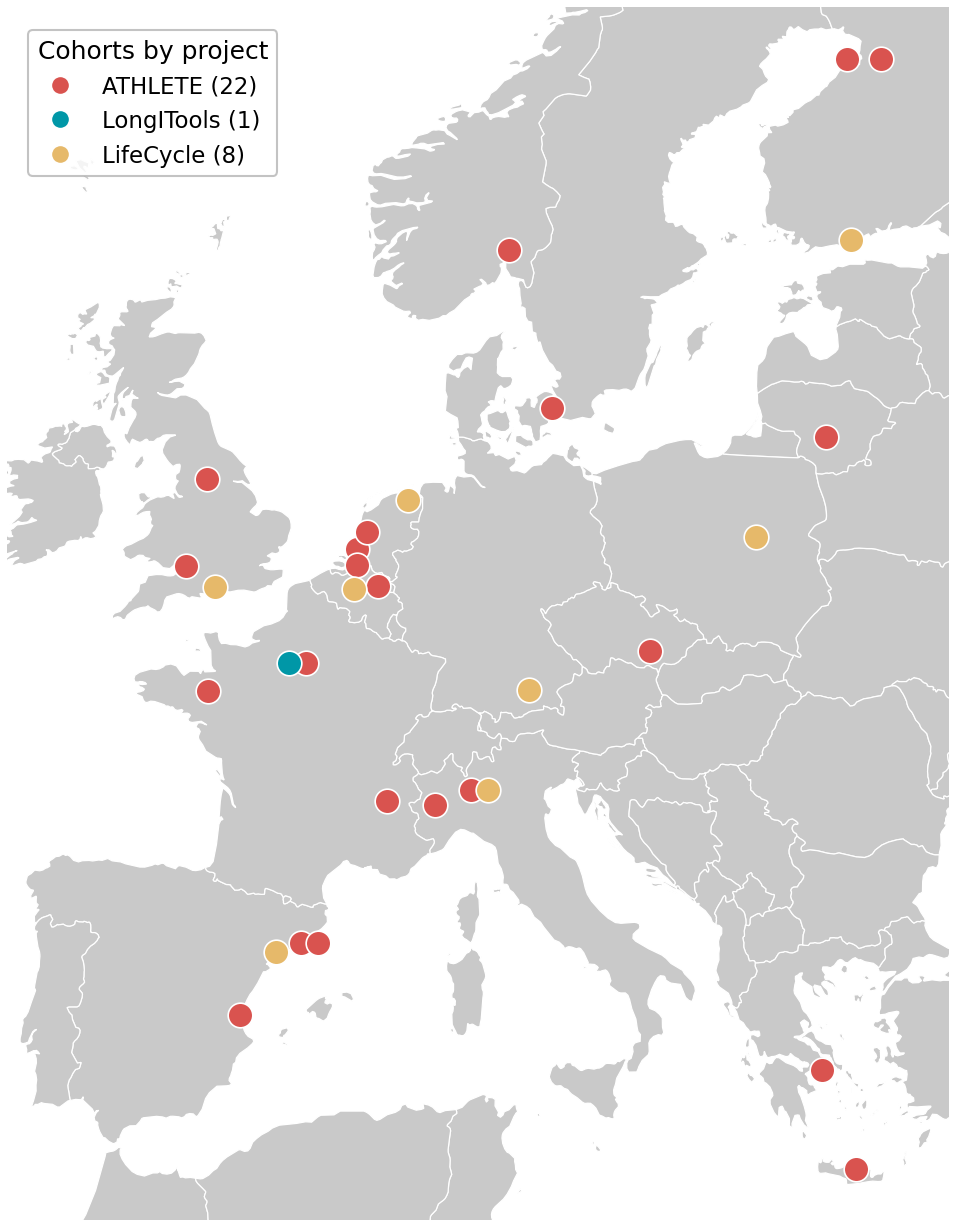
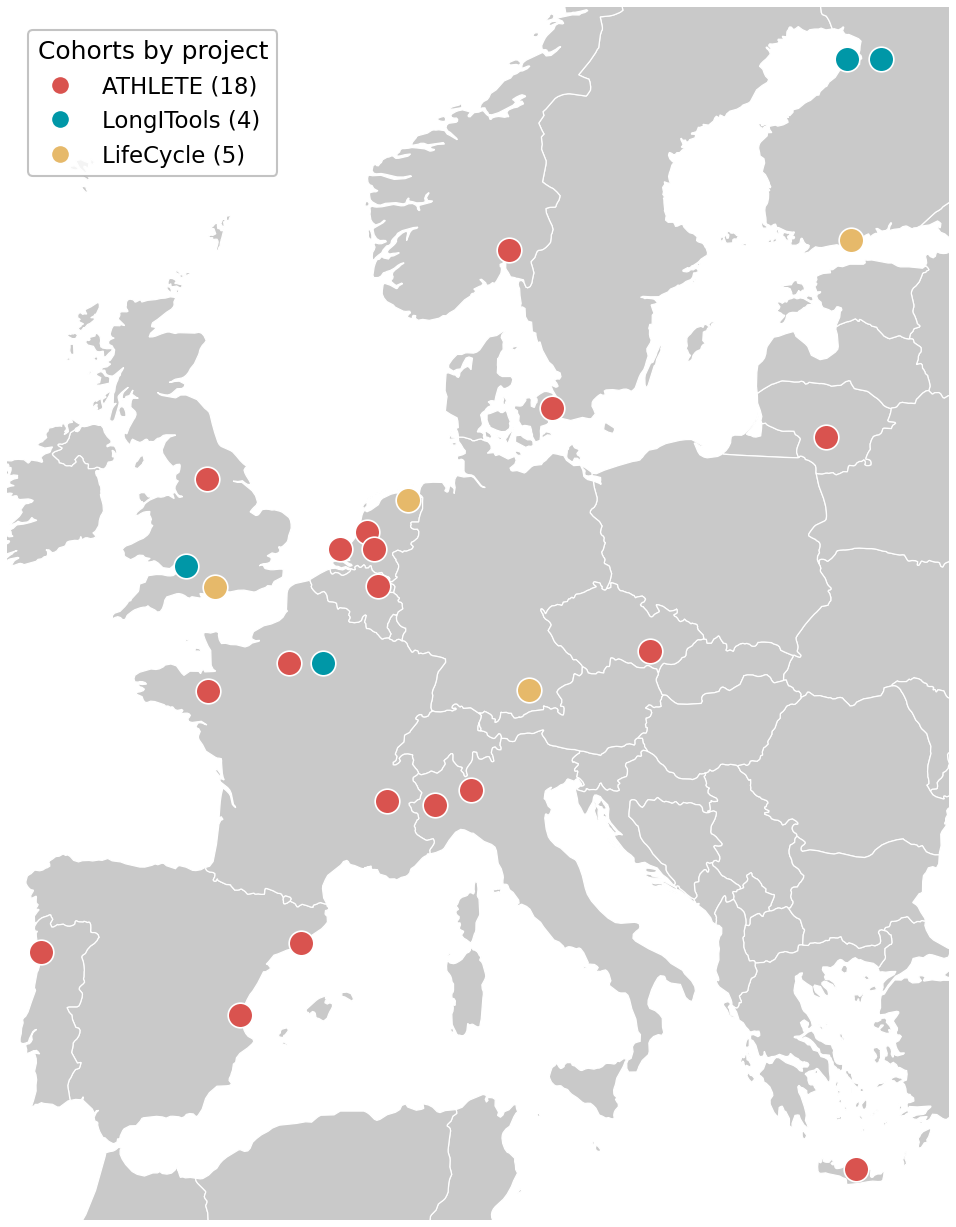
Build IHEN nodes map from the register, not a local copy

diff --git a/ihen-26/build_maps.py b/ihen-26/build_maps.py
@@ -25,47 +25,46 @@ SES_NO2 = [
 ]
 
 
-# IHEN map, one marker per cohort. LifeCycle: participating cohorts on the LifeCycle map
-# (stage-webinar/public/lifecycle_map_original.png). ATHLETE and LongITools: data/cohorts_extra.csv,
-# plus ABCD, HGS, NFBC1966 and NFBC1986 in ATHLETE; LongITools-only entries there are not nodes.
-# A cohort in several projects is labelled ATHLETE first, then LongITools, then LifeCycle.
-# Nudges are wider than in build_cohort_map.py so co-located markers stay visible.
+# IHEN map, one marker per cohort. Membership and coordinates come from
+# data/datashield_nodes.csv (built by data/build_nodes.py) — the single source of
+# truth; this file holds no cohort list of its own. A cohort in several projects is
+# labelled ATHLETE first, then LongITools, then LifeCycle.
 IHEN_PROJECTS = [('ATHLETE', RED), ('LongITools', TEAL), ('LifeCycle', GOLD)]
-IHEN_NODES = [
-    ('ALSPAC', -2.5879, 51.4545, 'ATHLETE'),                   # true Bristol
-    ('Born in Bradford', -1.7594, 53.7960, 'ATHLETE'),         # true Bradford
-    ('DNBC', 12.5683, 55.6761, 'ATHLETE'),                     # true Copenhagen
-    ('EDEN', 2.3522, 48.8566, 'ATHLETE'),                      # true Paris
-    ('Generation R', 4.4777, 51.9244, 'ATHLETE'),              # true Rotterdam
-    ('Generation R Next', 4.4777, 51.4744, 'ATHLETE'),         # fake — nudged off Rotterdam
-    ('INMA', -0.3763, 39.4699, 'ATHLETE'),                     # true Valencia
-    ('MoBa', 10.7522, 59.9139, 'ATHLETE'),                     # true Oslo
-    ('NINFEA', 7.6869, 45.0703, 'ATHLETE'),                    # true Turin
-    ('RHEA', 25.1442, 35.3387, 'ATHLETE'),                     # true Heraklion
-    ('PELAGIE', -1.6778, 48.1173, 'ATHLETE'),                  # true Rennes
-    ('Piccolipiu', 9.1900, 45.4642, 'ATHLETE'),                # true Milan
-    ('BISC', 2.1686, 41.3874, 'ATHLETE'),                      # true Barcelona
-    ('HELIX', 2.8686, 41.3874, 'ATHLETE'),                     # fake — nudged off Barcelona
-    ('EnvironAGE', 5.3378, 50.9307, 'ATHLETE'),                # true Hasselt
-    ('KANC', 23.9036, 54.8985, 'ATHLETE'),                     # true Kaunas
-    ('CELSPAC-TNG (Recetox)', 16.6068, 49.1951, 'ATHLETE'),    # true Brno
-    ('SEPAGES', 5.7245, 45.1885, 'ATHLETE'),                   # true Grenoble
-    ('ABCD', 4.9041, 52.3676, 'ATHLETE'),                      # true Amsterdam
-    ('HGS', 23.7275, 37.9838, 'ATHLETE'),                      # true Athens
+PROJECT_COLUMN = {'ATHLETE': 'Athlete', 'LongITools': 'Longitools', 'LifeCycle': 'LifeCycle'}
 
-    ('ELFE', 1.6522, 48.8566, 'LongITools'),                   # fake — nudged off Paris
-    ('NFBC1966', 24.7651, 65.0121, 'ATHLETE'),                 # fake — nudged off Oulu
-    ('NFBC1986', 26.1651, 65.0121, 'ATHLETE'),                 # fake — nudged off Oulu
 
-    ('SWS', -1.4044, 50.9097, 'LifeCycle'),                    # true Southampton
-    ('GECKO', 6.5665, 53.2194, 'LifeCycle'),                   # true Groningen
-    ('HBCS', 24.9384, 60.1699, 'LifeCycle'),                   # true Helsinki
-    ('CHOP-Germany', 11.5820, 48.1351, 'LifeCycle'),           # true Munich
-    ('CHOP-Belgium', 4.3517, 50.8503, 'LifeCycle'),            # true Brussels
-    ('CHOP-Italy', 9.8900, 45.4642, 'LifeCycle'),              # fake — nudged off Milan
-    ('CHOP-Poland', 21.0122, 52.2297, 'LifeCycle'),            # true Warsaw
-    ('CHOP-Spain', 1.1069, 41.1561, 'LifeCycle'),              # true Reus
-]
+def ihen_nodes():
+    """Exposome cohorts from the register, fanned out where several share a city.
+
+    The fan is a small deterministic offset so co-located markers stay visible; it
+    is not a real position. Markers are larger here than in build_cohort_map.py, so
+    the fan is wider too.
+    """
+    import csv
+    from collections import defaultdict
+
+    rows = list(csv.DictReader(open(os.path.join(HERE, '..', 'data', 'datashield_nodes.csv'))))
+    picked = []
+    for r in rows:
+        if r['status'] != 'live' or not r['lon']:
+            continue
+        project = next((p for p, _ in IHEN_PROJECTS if r[PROJECT_COLUMN[p]]), None)
+        if project:
+            picked.append([r['cohort'], float(r['lon']), float(r['lat']), project])
+
+    at = defaultdict(list)
+    for n in picked:
+        at[(round(n[1], 3), round(n[2], 3))].append(n)
+    for group in at.values():
+        if len(group) == 1:
+            continue
+        step = 1.4
+        for i, n in enumerate(group):
+            n[1] += (i - (len(group) - 1) / 2) * step
+    return [tuple(n) for n in picked]
+
+
+IHEN_NODES = ihen_nodes()
 
 
 def build_ses_no2_map():
@@ -133,7 +132,7 @@ def build_federated_basemap():
     for name, lon, lat, figsize in (
         # figsize must match the window's own ratio, or matplotlib letterboxes the
         # axes and every percentage position in the component is wrong
-        ('world-base.png', (-112, 95), (-35, 60), (10.35, 4.75)),
+        ('world-base.png', (-112, 95), (-38, 72), (10.35, 5.5)),
         ('europe-base.png', (-11, 32), (36, 58), (6, 4.75)),
     ):
         fig, ax = plt.subplots(figsize=figsize, dpi=200)
